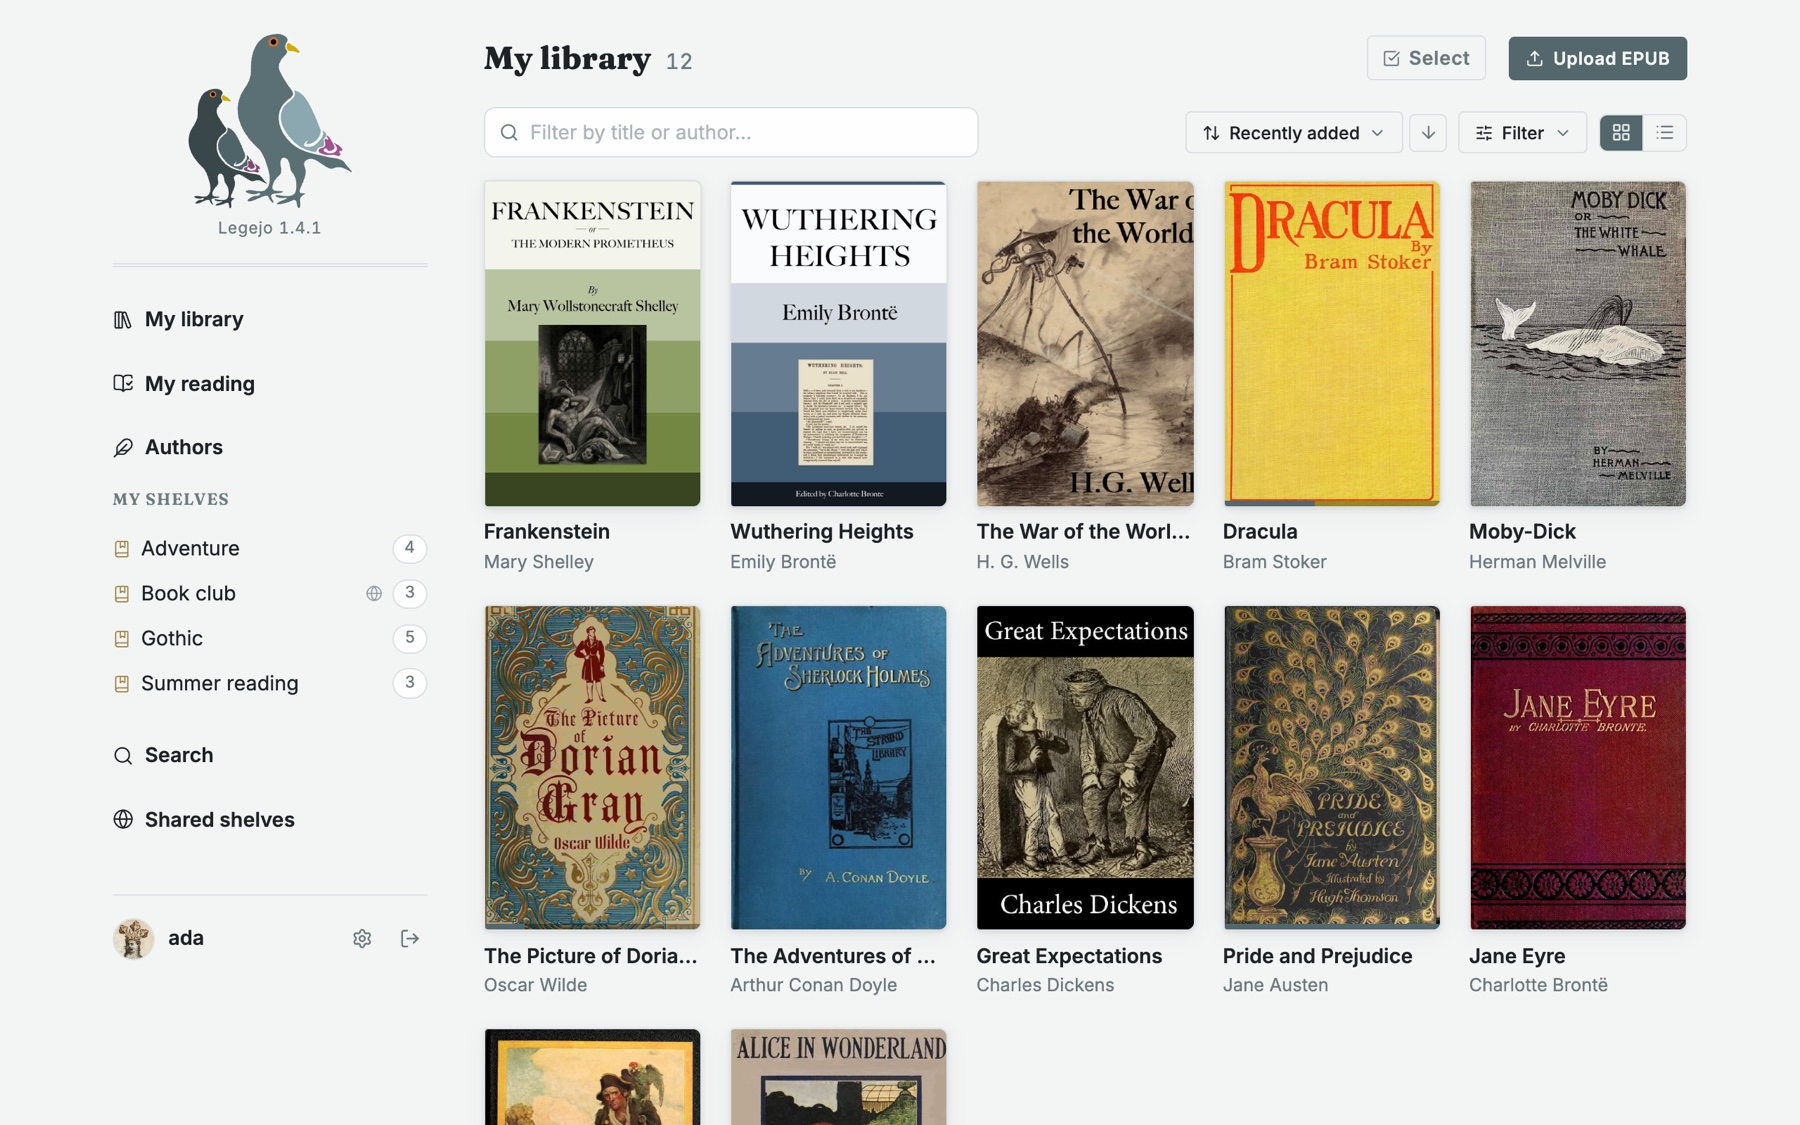
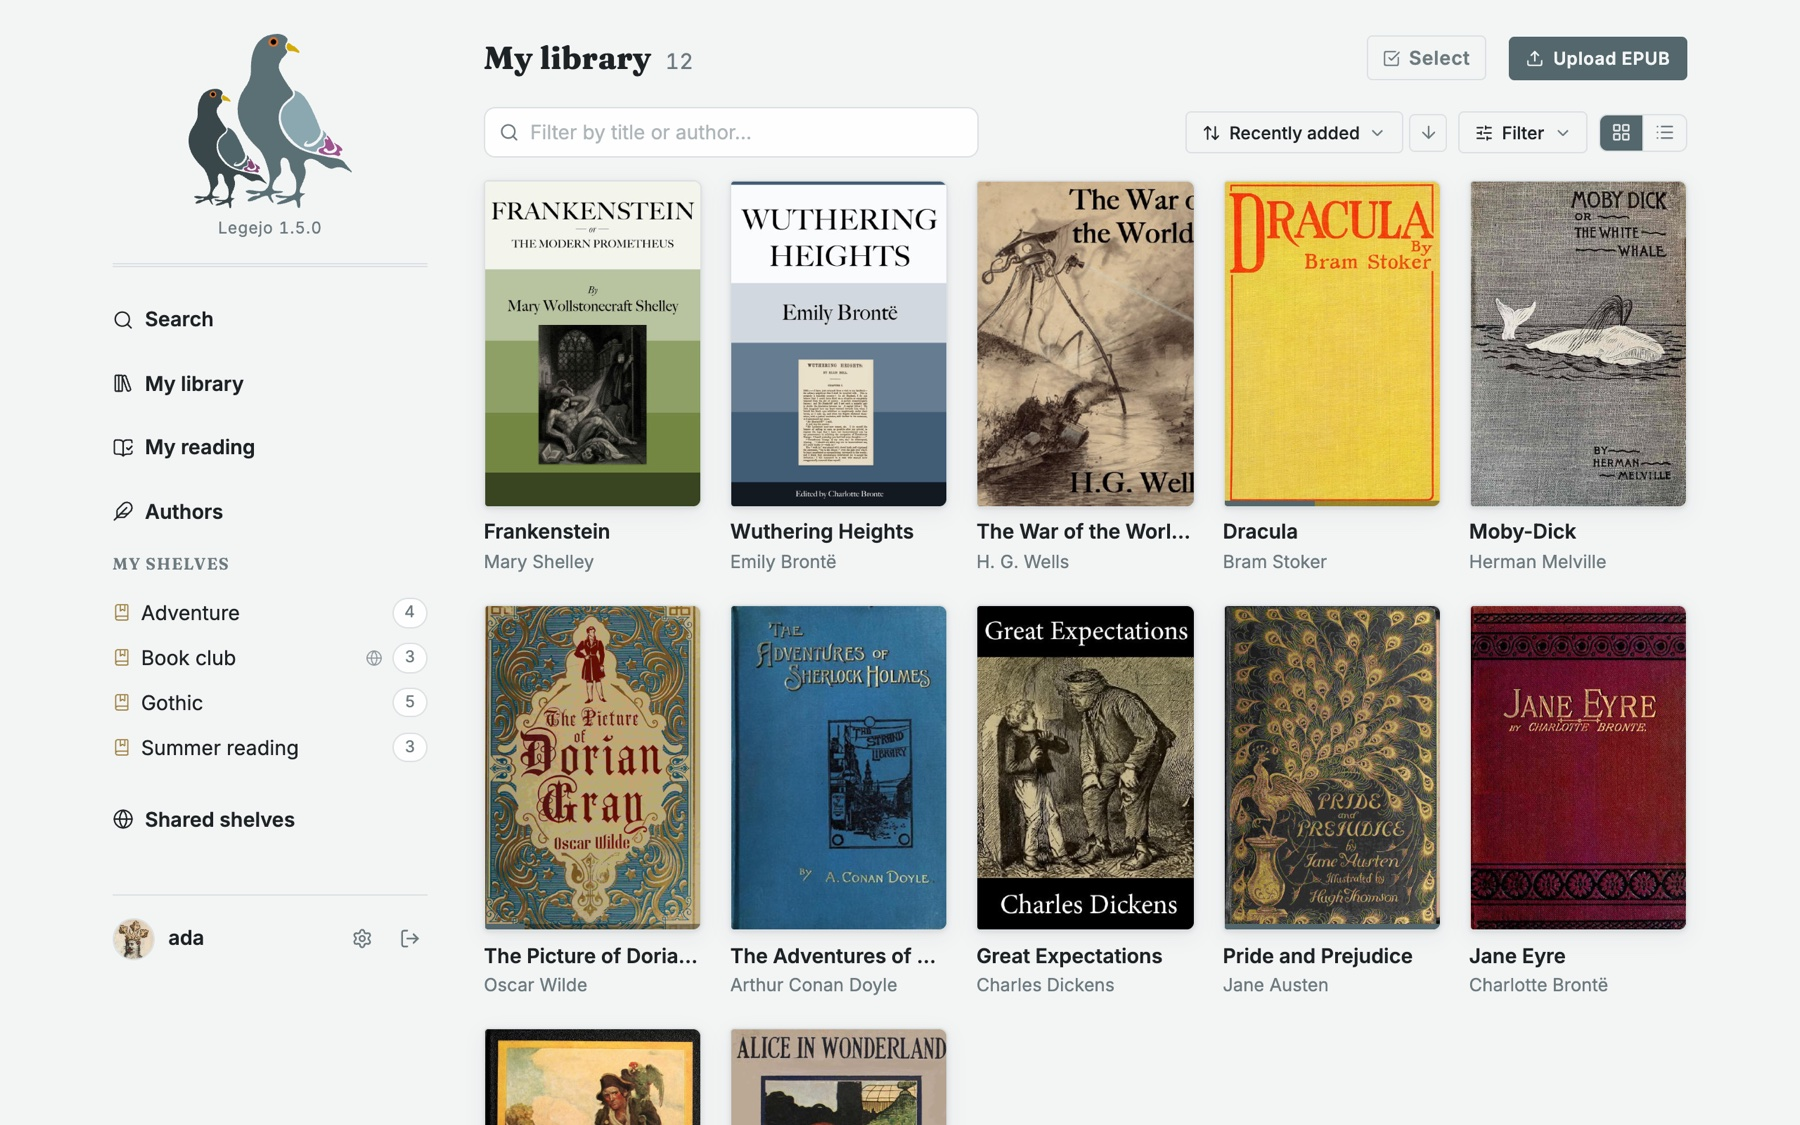
Release 1.5.0

Changed region(s): [[0.0622, 0.4356, 0.1556, 0.6844], [0.0622, 0.3422, 0.1556, 0.4044], [0.0622, 0.28, 0.1244, 0.3422]]

diff --git a/CHANGELOG.md b/CHANGELOG.md
@@ -4,6 +4,22 @@ What changed in each release of Legejo, newest first. Versions follow
 [semantic versioning](https://semver.org); every release is published as a
 container image with the same tag.
 
+## 1.5.0 (2026-10-07)
+
+- **Audiobooks (optional):** an admin can turn on audiobook support in the
+  admin settings. Upload MP3, M4A or M4B files, or a whole folder; each audiobook
+  becomes a private podcast feed with one episode per file. Add the address
+  in a podcast app, or use the buttons for Apple Podcasts, Pocket Casts,
+  Overcast and Castro, and the app keeps your place. Parts can also be
+  played on the audiobook's page.
+- **Sharing audiobooks:** keep an audiobook to yourself, share it with the
+  users you choose, or with everyone on the instance. Every listener has a
+  feed address of their own, which stops working when the sharing ends.
+- **Finding audiobooks:** category and tags, a filter bar with text search
+  (title, author, reader, description), a gallery and a list view, and the
+  search over everything finds audiobooks too.
+- **Sidebar:** Search is now the first entry.
+
 ## 1.4.1 (2026-10-06)
 
 - **AI assistants (MCP):** two new read-only tools list the shelves other
